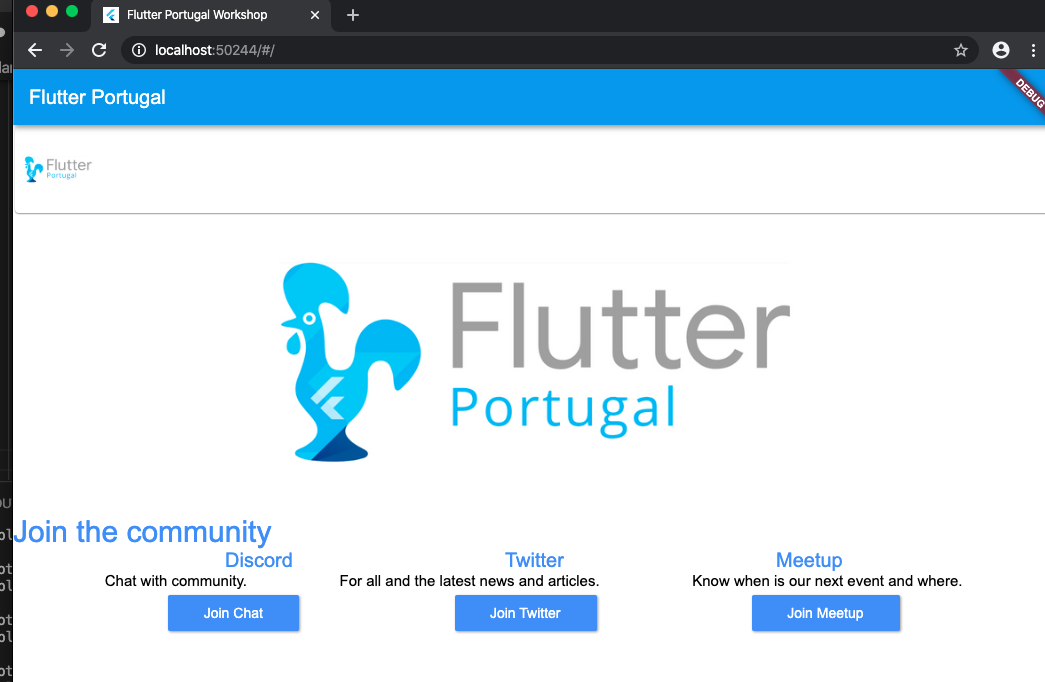
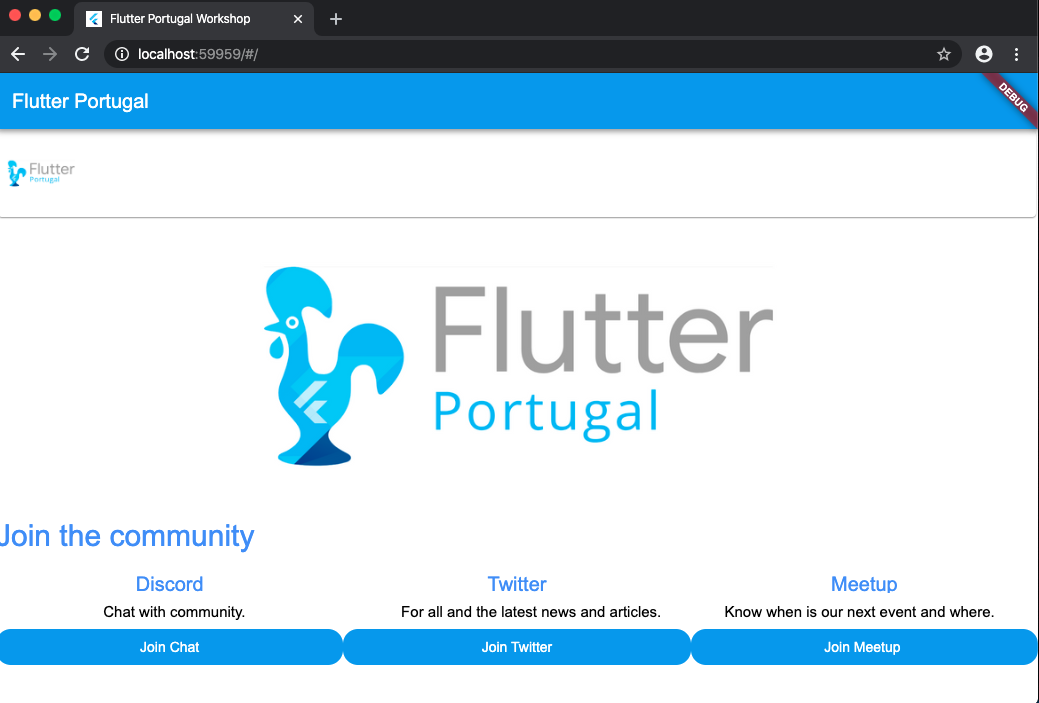
actualizado grafico e botoes

Changed region(s): [[0.0, 0.0, 1.0, 1.0], [0.2464, 0.3695, 0.77, 0.6774], [0.8932, 0.0, 1.0, 0.1848]]

diff --git a/lib/main.dart b/lib/main.dart
@@ -184,10 +184,10 @@ class HomeScreen extends StatelessWidget {
             ],
           ),
           Row(
-            mainAxisAlignment: MainAxisAlignment.spaceEvenly,
+            mainAxisAlignment: MainAxisAlignment.spaceBetween,
             crossAxisAlignment: CrossAxisAlignment.center,
             children: <Widget>[
-              Center(
+              Expanded(
                 child: FlatButton(
                   color: Colors.blue,
                   textColor: Colors.white,
@@ -214,7 +214,7 @@ class HomeScreen extends StatelessWidget {
               SizedBox(
                 height: 10,
               ),
-              Center(
+              Expanded(
                 child: FlatButton(
                   color: Colors.blue,
                   textColor: Colors.white,
@@ -241,7 +241,7 @@ class HomeScreen extends StatelessWidget {
               SizedBox(
                 height: 10,
               ),
-              Center(
+              Expanded(
                 child: FlatButton(
                   color: Colors.blue,
                   textColor: Colors.white,
